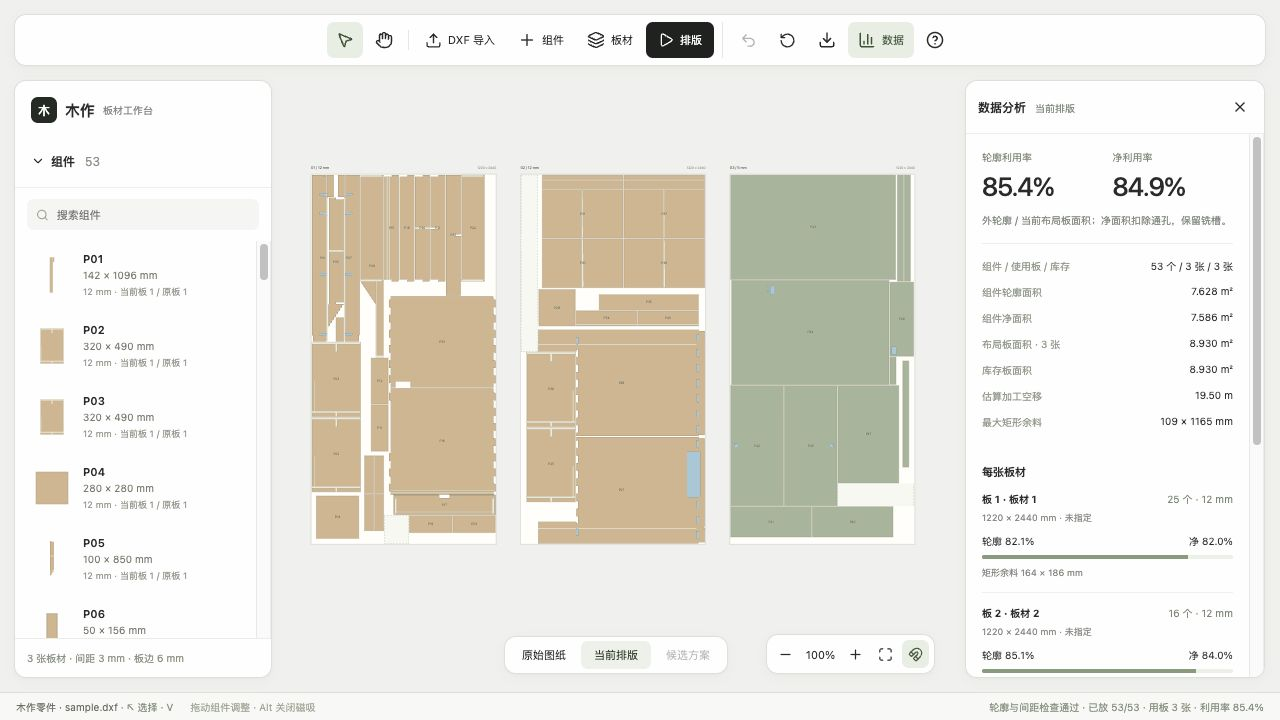
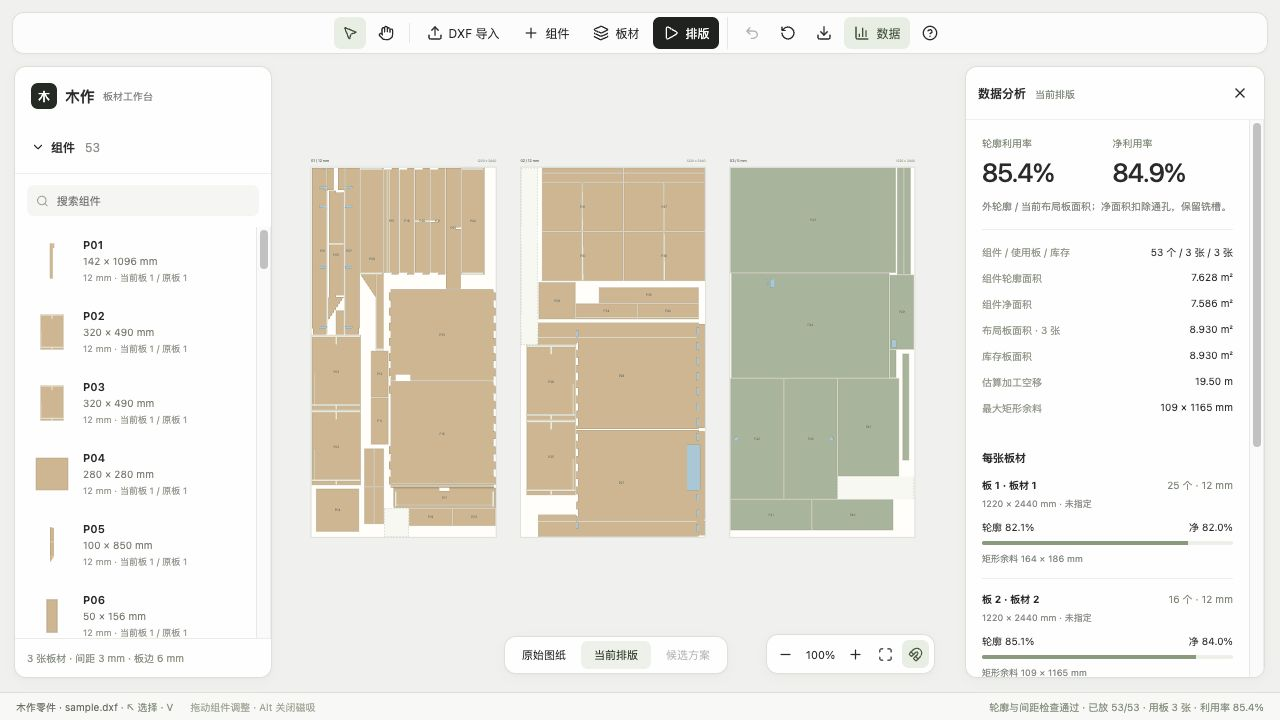
ui: match RiSu compact toolbar dimensions

diff --git a/src/styles.css b/src/styles.css
@@ -115,7 +115,7 @@ small,
 }
 .workspace-surface {
   --right-rail-width: 300px;
-  --information-top: 80px;
+  --information-top: 66px;
   position: relative;
   flex: 1;
   min-height: 0;
@@ -651,21 +651,25 @@ dd {
 .brand-sub { font-size: 10px; }
 .floating-tools {
   position: absolute;
-  left: 14px;
-  right: 14px;
-  top: 14px;
+  left: 12px;
+  right: 12px;
+  top: 12px;
   z-index: 5;
-  padding: 7px;
+  padding: 4px;
+  background: rgba(255, 255, 255, 0.8);
+  backdrop-filter: blur(12px);
+  box-shadow: 0 1px 4px #17271306;
 }
 .floating-toolbar { display: flex; align-items: center; justify-content: center; gap: 8px; overflow-x: auto; scrollbar-width: thin; overscroll-behavior: contain; }
-.toolbar-group { display: flex; align-items: center; gap: 3px; flex-shrink: 0; }
-.floating-toolbar button { width: 36px; height: 36px; min-height: 36px; padding: 7px; flex-shrink: 0; font-size: 11px; }
+.toolbar-group { display: flex; align-items: center; gap: 4px; flex-shrink: 0; }
+.floating-toolbar button { width: 32px; height: 32px; min-height: 32px; padding: 6px; flex-shrink: 0; font-size: 12px; }
+.floating-toolbar button svg { width: 16px; height: 16px; flex-shrink: 0; }
 .floating-toolbar .tool-label { display: inline; }
-.floating-toolbar button:has(.tool-label) { width: auto; padding: 7px 10px; }
-.floating-toolbar .pack-action { width: auto; padding: 7px 12px; }
+.floating-toolbar button:has(.tool-label) { width: auto; padding: 6px 10px; }
+.floating-toolbar .pack-action { width: auto; padding: 6px 10px; }
 .floating-toolbar .toolbar-divider { height: 20px; margin: 0 3px; flex-shrink: 0; }
 .secondary-tools { border-left: 1px solid #e4e8de; padding-left: 8px; }
-.secondary-tools button[aria-label="数据分析"] { width: auto; padding: 7px 10px; }
+.secondary-tools button[aria-label="数据分析"] { width: auto; padding: 6px 10px; }
 .floating-toolbar button:not(.primary).active { background: #e9eee4; color: #3f5135; }
 .canvas-region.list-collapsed { left: 0; }
 .workspace-surface.analysis-closed .canvas-region { right: 0; }
@@ -722,7 +726,6 @@ dd {
   .workspace-surface { --right-rail-width: 280px; }
   .parts-panel { width: 220px; }
   .canvas-region { left: 244px; right: 306px; }
-  .floating-toolbar button { width: 33px; }
   .zoom-controls { bottom: 68px; }
   .analysis-body { padding: 14px; }
   .stock-svg { padding-left: 10px; padding-right: 10px; }

diff --git a/docs/superpowers/specs/2026-10-08-floating-tools-design.md b/docs/superpowers/specs/2026-10-08-floating-tools-design.md
@@ -7,3 +7,7 @@ At narrower widths preserve reachable actions, bounded panel scrolling, and spac
 ## User diagram correction
 
 The user corrected the two-row/right-aligned interpretation with a diagram: one floating toolbar across the top, centered controls, left and right panels beneath it, and a small bottom-center view switch. Use 14 px outer margins, 52 px toolbar height, and panels/canvas beginning at 80 px. Keep every action in one row with horizontal scrolling at narrow widths. This supersedes the earlier position and two-row design.
+
+## RiSu density refinement
+
+User requests a shorter toolbar referencing RiSu. Its app/src/features/viewport/components/Viewport.tsx uses 32 px (h-8) controls, 4 px (py-1) container padding, bg-background/80 and backdrop blur. Apply these dimensions to the current one-row centered toolbar: 42 px total with border, 16 px icons, 12 px text, outer inset 12 px and information panels starting at 66 px. Retain all current actions and horizontal scrolling.
